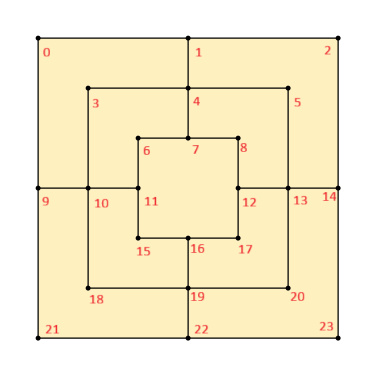
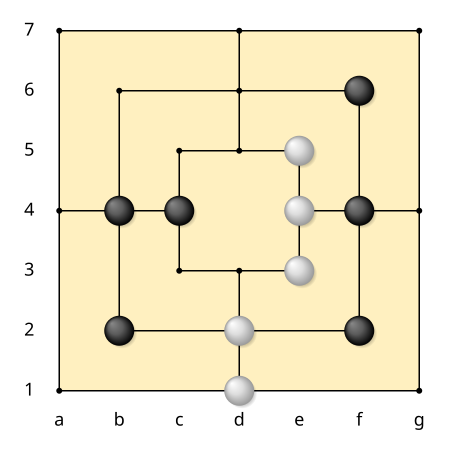
feat: implement core game logic and console interface
- Make Move class functional with coordinate-based system
- Add ConsoleBoardRenderer for visual board display
- Implement move validation logic
- Change coordinate system to alphanumeric format (A1-G7)

Changed region(s): [[0.0587, 0.0587, 0.9387, 0.968], [0.9093, 0.9093, 0.9387, 0.968], [0.0587, 0.0293, 0.088, 0.088]]

diff --git a/BoardGameNMM/Models/Board.cs b/BoardGameNMM/Models/Board.cs
@@ -9,11 +9,91 @@ namespace NineMensMorris.Models
 {
     public class Board
     {
-        private PieceState[] _positions = new PieceState[24];
-
-        public bool IsMoveValid(Move move, Player currentPlayer)
+        public Dictionary<string, PieceState> Slots { get; private set; }
+        private Dictionary<string, List<string>> _neighbors;
+        public Board()
         {
-            return false;
+            Slots = new Dictionary<string, PieceState>();
+            InitializeBoard();
+            InitializeNeighbors();
+        }
+
+        private void InitializeBoard()
+        {
+            // Все 24 позиции в формате A1-G7
+            string[] positions = {
+            "A1", "A4", "A7",
+            "B2", "B4", "B6",
+            "C3", "C4", "C5",
+            "D1", "D2", "D3", "D5", "D6", "D7",
+            "E3", "E4", "E5",
+            "F2", "F4", "F6",
+            "G1", "G4", "G7"
+        };
+
+            foreach (var pos in positions)
+            {
+                Slots[pos] = PieceState.None;
+            }
+        }
+
+        private void InitializeNeighbors()
+        {
+            _neighbors = new Dictionary<string, List<string>>
+        {
+            {"A1", new List<string> {"A4", "D1"}},
+            {"A4", new List<string> {"A1", "A7", "B4"}},
+            {"A7", new List<string> {"A4", "D7"}},
+            {"B2", new List<string> {"B4", "D2"}},
+            {"B4", new List<string> {"A4", "B2", "C4", "B6"}},
+            {"B6", new List<string> {"B4", "D6"}},
+            {"C3", new List<string> {"C4", "D3" } },
+            {"C4", new List<string> {"B4", "C3", "C5"} },
+            {"D1", new List<string> {"A1", "D2", "G1"} },
+            {"D2", new List<string> {"D1", "B2", "F2", "D3"} },
+            {"D3", new List<string> {"D2", "C3", "E3"} },
+            {"D5", new List<string> {"C5", "E5", "D6"} },
+            {"D6", new List<string> {"D5", "B6", "F6", "D7"} },
+            {"D7", new List<string> {"A7", "D6", "G7"} },
+            {"E3", new List<string> {"D3", "E4"} },
+            {"E4", new List<string> {"E3", "E5", "F4"} },
+            {"E5", new List<string> {"E4", "D5"} },
+            {"F2", new List<string> {"D2", "F4"} },
+            {"F4", new List<string> {"E4", "F2", "F6", "G4"} },
+            {"F6", new List<string> {"D6", "F4"} },
+            {"G1", new List<string> {"D1", "G4"} },
+            {"G4", new List<string> {"G1", "G7", "F4"} },
+            {"G7", new List<string> {"D7", "G4"} }
+        };
+        }
+
+        public bool IsMoveValid(Move move, Player currentPlayer, GamePhase gamePhase)
+        {
+            string to = move.ToId;
+            string from = move.FromId;
+            // Общие проверки для всех фаз
+            if (!Slots.ContainsKey(to) || Slots[to] != PieceState.None)
+                return false;
+
+            switch (gamePhase)
+            {
+                case GamePhase.Placing:
+                    // В фазе расстановки from не используется, только to
+                    return true; // Уже проверили что to пустая
+
+                case GamePhase.Moving:
+                    return Slots.ContainsKey(from) &&
+                           Slots[from] == currentPlayer.PieceColor &&
+                           _neighbors[from].Contains(to); // Но у меня нет _neighbors ПОМОГИ МНЕ ПОЖАЛУЙТСА
+
+                case GamePhase.Flying:
+                    return Slots.ContainsKey(from) &&
+                           Slots[from] == currentPlayer.PieceColor;
+                // to уже проверена на пустоту
+
+                default:
+                    return false;
+            }
         }
 
         public void ApplyMove(Move move)
@@ -24,6 +104,11 @@ namespace NineMensMorris.Models
         public bool CheckForMill(int position)
         {
             return false;
+        }
+
+        public Dictionary<string, PieceState> GetPositionStates()
+        {
+            return Slots;
         }
     }
 }

diff --git a/BoardGameNMM/Models/BoardToString.cs b/BoardGameNMM/Models/BoardToString.cs
@@ -1,0 +1,58 @@
+using System;
+using System.Collections.Generic;
+using System.Linq;
+using System.Text;
+using System.Threading.Tasks;
+using NineMensMorris.Models.Enums;
+
+namespace NineMensMorris.Models
+{
+    static class BoardToString
+    {
+        public static void DrawBoard(Dictionary<string, PieceState> board)
+        {
+            Console.OutputEncoding = Encoding.UTF8;
+
+            Console.WriteLine("\n     A   B   C   D   E   F   G");
+            Console.WriteLine("   ╔═══════════════════════════╗");
+
+            string[] template = {
+        "1  ║ {A1}───────────{A4}───────────{A7} ║",
+        "   ║ │           │           │ ║",
+        "2  ║ │   {B2}───────{B4}───────{B6}   │ ║",
+        "   ║ │   │       │       │   │ ║",
+        "3  ║ │   │   {C3}───{C4}───{C5}   │   │ ║",
+        "   ║ │   │   │       │   │   │ ║",
+        "4  ║ {D1}───{D2}───{D3}       {D5}───{D6}───{D7} ║",
+        "   ║ │   │   │       │   │   │ ║",
+        "5  ║ │   │   {E3}───{E4}───{E5}   │   │ ║",
+        "   ║ │   │       │       │   │ ║",
+        "6  ║ │   {F2}───────{F4}───────{F6}   │ ║",
+        "   ║ │           │           │ ║",
+        "7  ║ {G1}───────────{G4}───────────{G7} ║"
+    };
+
+            foreach (var line in template)
+            {
+                string formattedLine = line;
+                foreach (var coord in board.Keys)
+                {
+                    if (line.Contains($"{{{coord}}}"))
+                    {
+                        char symbol = board[coord] switch
+                        {
+                            PieceState.White => 'W',
+                            PieceState.Black => 'B',
+                            _ => '○'
+                        };
+                        formattedLine = formattedLine.Replace($"{{{coord}}}", symbol.ToString());
+                    }
+                }
+                Console.WriteLine(formattedLine);
+            }
+
+            Console.WriteLine("   ╚═══════════════════════════╝");
+            Console.WriteLine("     A   B   C   D   E   F   G\n");
+        }
+    }
+    }

diff --git a/BoardGameNMM/Models/Move.cs b/BoardGameNMM/Models/Move.cs
@@ -3,10 +3,23 @@ using System.Collections.Generic;
 using System.Linq;
 using System.Text;
 using System.Threading.Tasks;
+using NineMensMorris.Models.Enums;
 
 namespace NineMensMorris.Models
 {
     public class Move
     {
+        public string FromId { get; }
+        public string ToId { get; }
+        public PieceState Piece { get; }
+        public GamePhase Phase { get; }
+
+        public Move(string fromId, string toId, PieceState piece, GamePhase phase)
+        {
+            FromId = fromId;
+            ToId = toId;
+            Piece = piece;
+            Phase = phase;
+        }
     }
 }

diff --git a/BoardGameNMM/Models/Game.cs b/BoardGameNMM/Models/Game.cs
@@ -15,6 +15,9 @@ namespace NineMensMorris.Models
         private Player _currentPlayer;
         private GamePhase _currentPhase;
 
+        public static int MoveId { get; private set; } = 0;
+        public Board Board { get { return _board; } }
+
         public Game()
         {
             _board = new Board();

diff --git a/BoardGameNMM/Program.cs b/BoardGameNMM/Program.cs
@@ -7,7 +7,7 @@ namespace NineMensMorris
         static void Main(string[] args)
         {
             Game game = new Game();
-            Console.WriteLine("Hello, World!");
+            BoardToString.DrawBoard(game.Board.GetPositionStates());
         }
     }
 }
